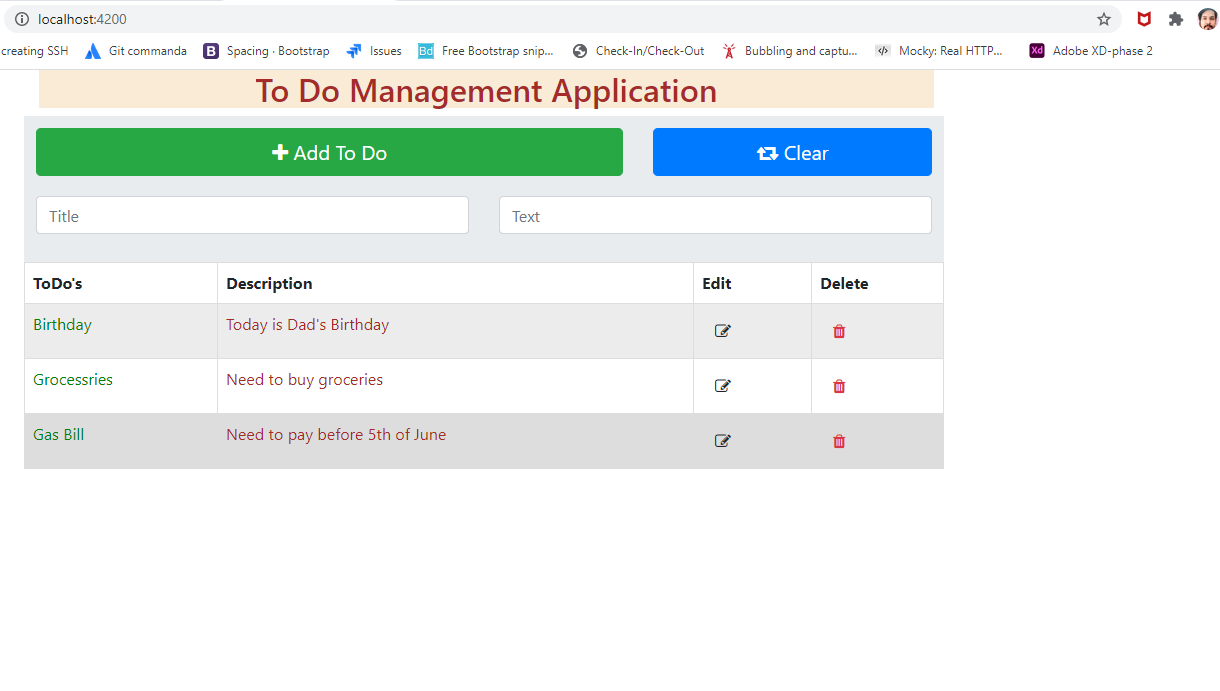
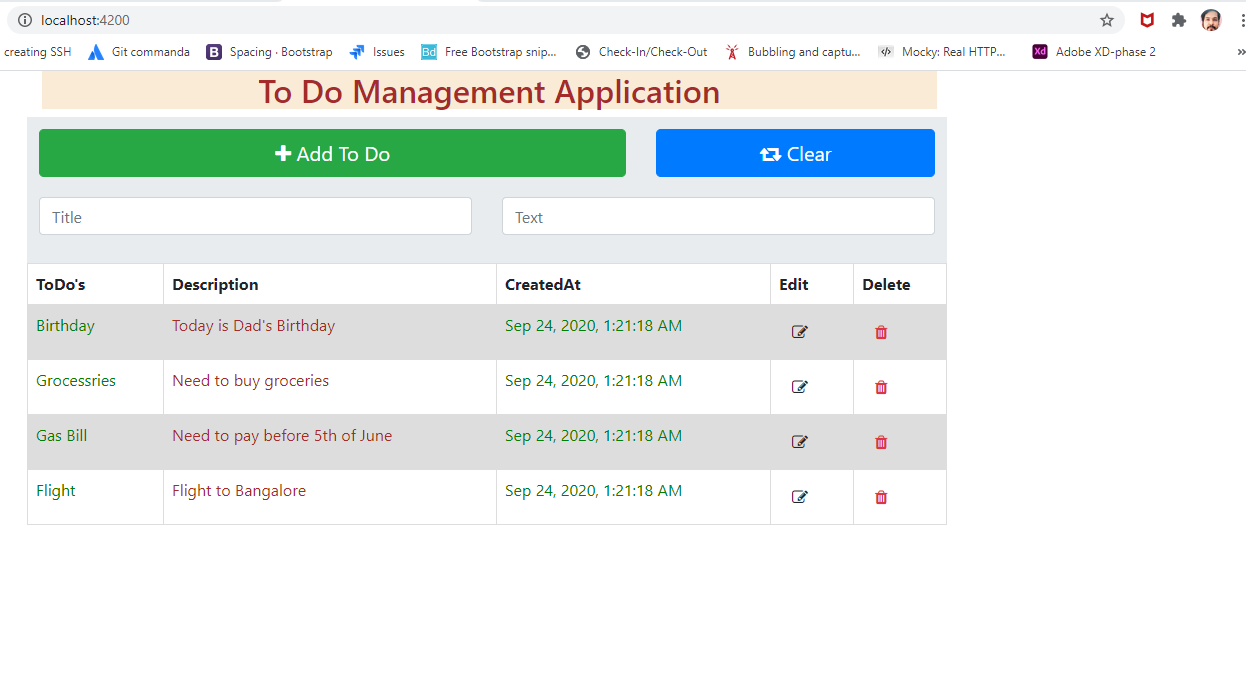
Added TimeStamp

diff --git a/src/app/modules/ToDoForm/toDoForm.component.ts b/src/app/modules/ToDoForm/toDoForm.component.ts
@@ -9,7 +9,7 @@ import { ToastrService } from 'ngx-toastr';
   styleUrls: ['./toDoForm.component.css']
 })
 export class ToDoComponent implements OnInit {
-
+  appointmentTime  = new Date();
   constructor(
     private toDoService: toDoService,
     private toastrService: ToastrService
@@ -31,6 +31,7 @@ export class ToDoComponent implements OnInit {
       (result: toDo) => {
         this.toDoService.getallToDo();
         this.toastrService.success('Created a new Task !');
+        this.appointmentTime.getDate();
         this.clearToDo();
       });
   }

diff --git a/src/app/modules/ToDoForm/toDoForm.component.html b/src/app/modules/ToDoForm/toDoForm.component.html
@@ -22,12 +22,4 @@
       <input placeholder="Text" required class="form-control" [(ngModel)]="toDoService.toDoItemList.text">
     </div>
   </div>
-  <!-- <div class="row">
-    <div class="col-md-6 form-group">
-      <input placeholder="Created At" class="form-control" [(ngModel)]="toDoService.toDoItemList.createdAt">
-    </div>
-    <div class="col-md-6 form-group">
-      <input placeholder="Modified At" class="form-control" [(ngModel)]="toDoService.toDoItemList.modifiedAt">
-    </div>
-  </div> -->
 </div>

diff --git a/src/app/modules/ToDoData/toDoData.component.html b/src/app/modules/ToDoData/toDoData.component.html
@@ -2,12 +2,14 @@
     <tr>
       <th>ToDo's</th>
       <th>Description</th>
+      <th>CreatedAt</th>
       <th>Edit</th>
       <th>Delete</th>
     </tr>
     <tr class="checked" *ngFor="let toDo of toDoService.allToDo">
       <td>{{toDo.title}}</td>
       <td>{{toDo.text}}</td>
+      <td>{{appointmentTime | date:'medium'}}</td>
       <td>
     <a class="btn" (click)="editToDo(toDo)">
           <i class="fa fa-edit"></i>

diff --git a/src/app/modules/ToDoData/toDoData.component.ts b/src/app/modules/ToDoData/toDoData.component.ts
@@ -9,7 +9,7 @@ import { ToastrService } from 'ngx-toastr';
   styleUrls: ['./toDoData.component.css']
 })
 export class ToDoListComponent implements OnInit {
-
+  appointmentTime  = new Date();
   constructor(
     private toDoService: toDoService,
     private toastrService: ToastrService
